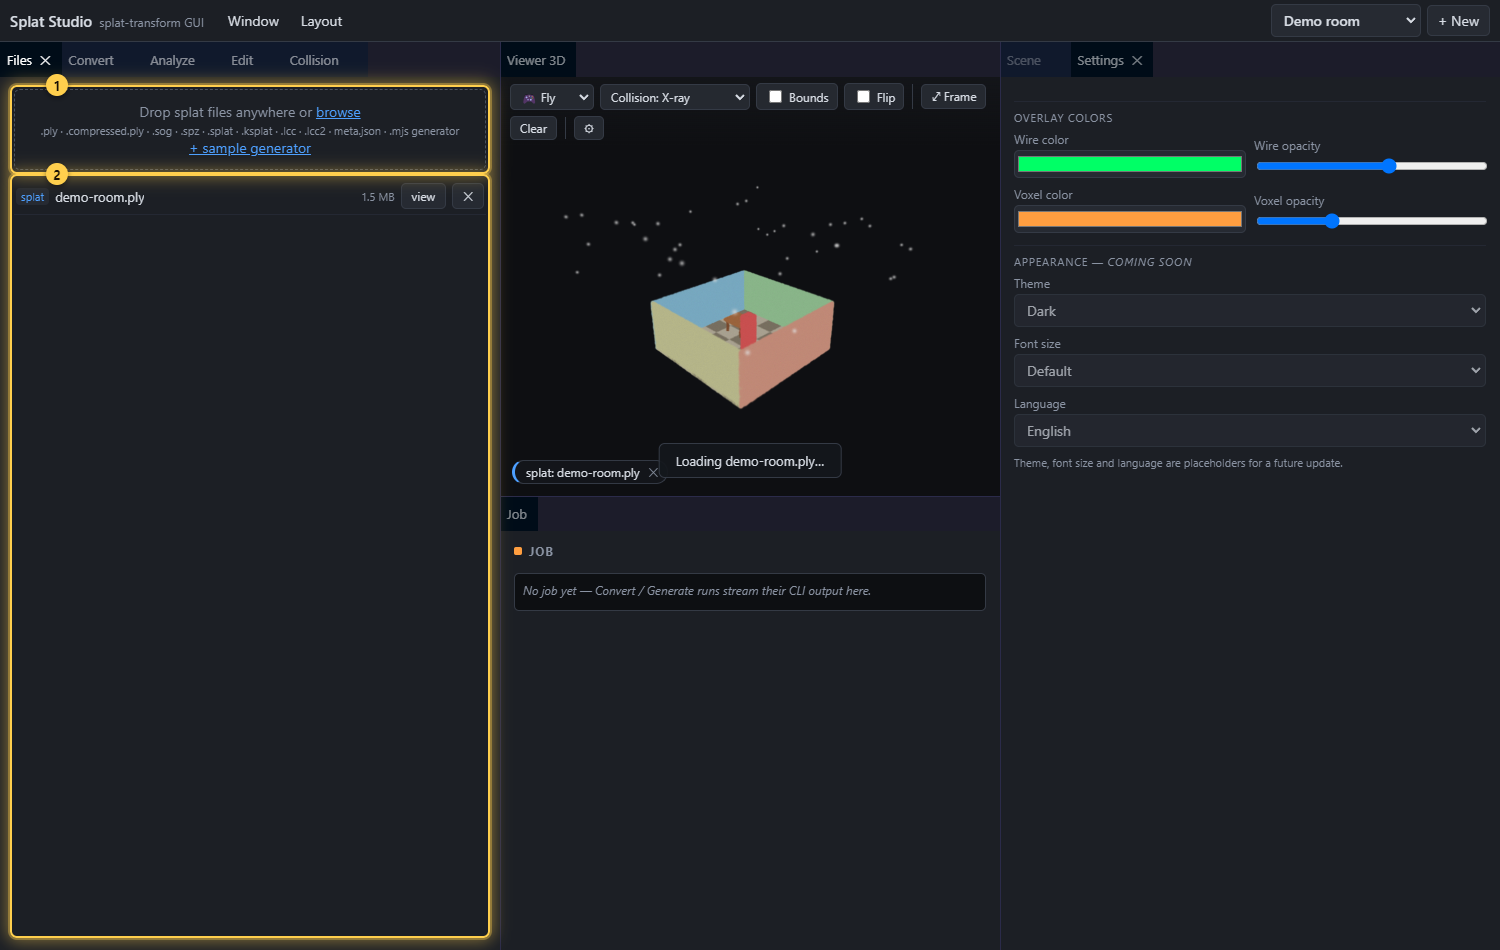
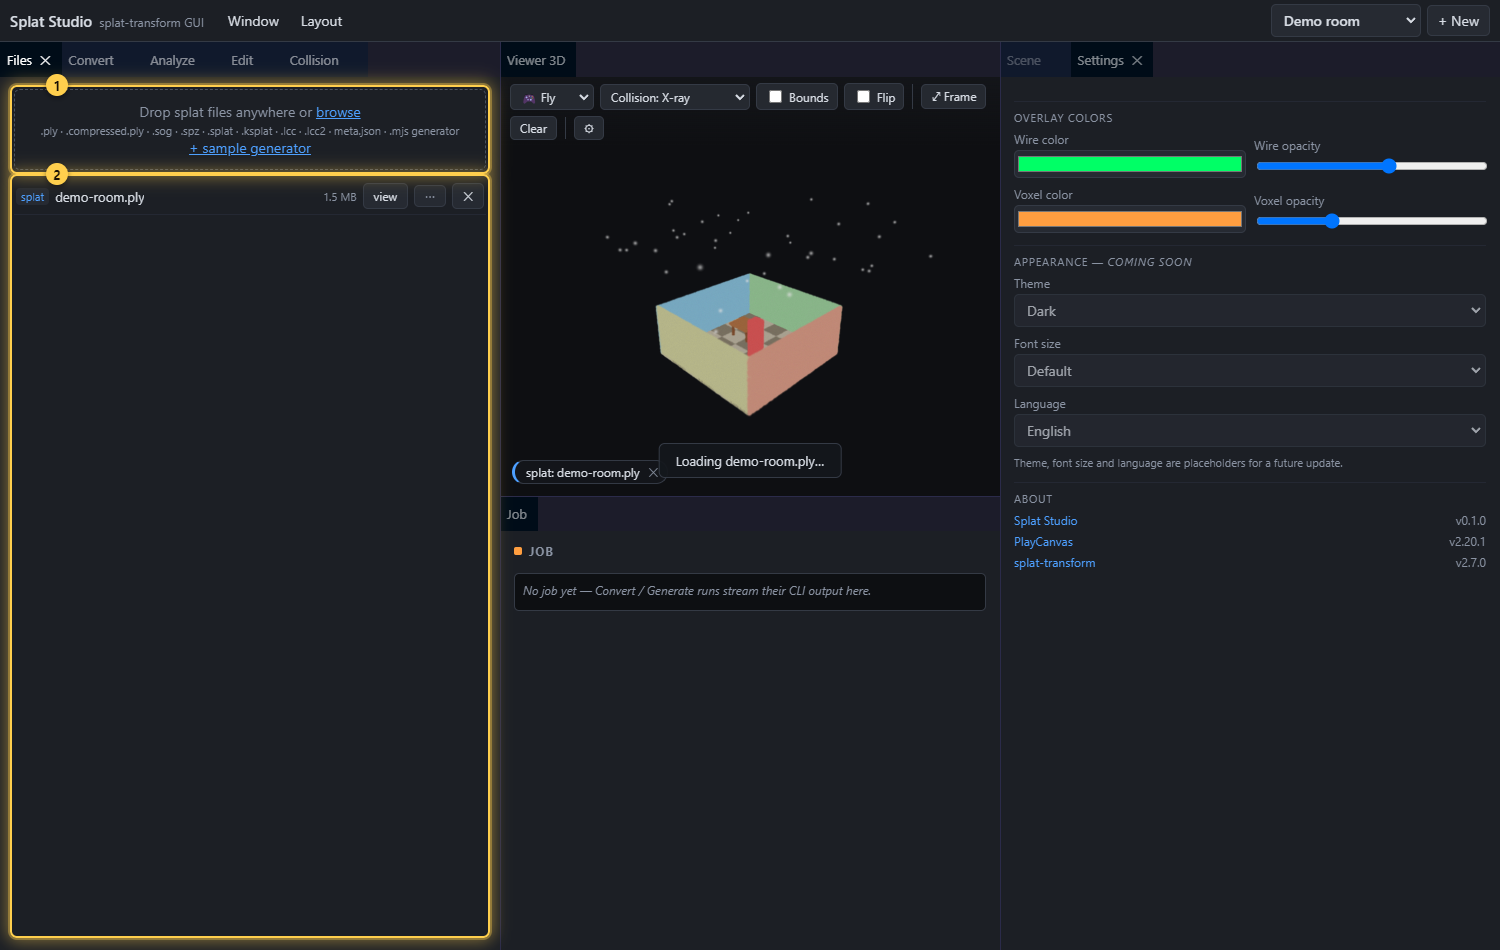
Files: right-click / ⋯ context menu of per-file actions
Right-click any file row (or click its new ⋯ button) for a floating menu of
every action that applies to that file, gated by file kind:

- View in viewport
- Convert → SOG bundle / Streamed LOD / other formats (prefills Convert)
- Generate / Regenerate collision (label flips on a sibling .collision.glb)
- Analyze stats (runs -m and shows the stats card)
- Edit (scale / origin), Generate & view (.mjs), Copy path, Delete

The menu is appended to <body> (dock panels are pooled / overflow-clipped) and
dismisses on outside-click / Escape / scroll / blur. No server changes — reuses
viewFile, openWindow, and select-prefill. Adds a docs:capture scene + guide
section + screenshot.

Changed region(s): [[0.4293, 0.2747, 0.5827, 0.4579], [0.6747, 0.5189, 0.736, 0.6105], [0.2147, 0.1832, 0.276, 0.2137]]

diff --git a/client/src/main.ts b/client/src/main.ts
@@ -213,6 +213,15 @@ const refreshFiles = async (highlight?: Set<string>) => {
             li.appendChild(document.createElement('span')); // keep ✕ in its grid column
         }
 
+        // ⋯ actions button (and right-click anywhere on the row) → file menu
+        const more = document.createElement('button');
+        more.className = 'row-more';
+        more.textContent = '⋯';
+        more.title = 'Actions for this file (or right-click the row)';
+        more.onclick = (e) => { e.stopPropagation(); const rect = more.getBoundingClientRect(); showContextMenu(rect.right, rect.bottom + 2, fileActions(f, files)); };
+        li.appendChild(more);
+        li.oncontextmenu = (e) => { e.preventDefault(); showContextMenu(e.clientX, e.clientY, fileActions(f, files)); };
+
         // two-stage delete: first click arms, second click within 2.5s deletes
         const del = document.createElement('button');
         del.textContent = '✕';
@@ -296,6 +305,105 @@ const viewFile = async (name: string, as: api.ViewKind) => {
     } catch (err) {
         showToast(`Failed to load ${name}: ${err}`, true);
     }
+};
+
+// ---------- file context menu ----------
+// A floating menu of every action that applies to a file — right-click a row or
+// click its ⋯ button. Appended to <body> because dock panels are pooled /
+// overflow-clipped, so a menu inside the panel would be cut off.
+type CtxItem = 'sep' | { label: string; hint?: string; disabled?: boolean; danger?: boolean; run: () => void };
+
+let ctxMenuEl: HTMLDivElement | null = null;
+const closeContextMenu = (): void => {
+    ctxMenuEl?.remove();
+    ctxMenuEl = null;
+    document.removeEventListener('pointerdown', onCtxOutside, true);
+    document.removeEventListener('keydown', onCtxKey, true);
+    document.removeEventListener('scroll', closeContextMenu, true);
+    window.removeEventListener('blur', closeContextMenu);
+    window.removeEventListener('resize', closeContextMenu);
+};
+function onCtxOutside(e: PointerEvent): void { if (ctxMenuEl && !ctxMenuEl.contains(e.target as Node)) closeContextMenu(); }
+function onCtxKey(e: KeyboardEvent): void { if (e.key === 'Escape') closeContextMenu(); }
+
+const showContextMenu = (x: number, y: number, items: CtxItem[]): void => {
+    closeContextMenu();
+    const menu = document.createElement('div');
+    menu.className = 'ctx-menu';
+    for (const it of items) {
+        if (it === 'sep') { const s = document.createElement('div'); s.className = 'ctx-sep'; menu.appendChild(s); continue; }
+        const b = document.createElement('button');
+        b.className = 'ctx-item' + (it.danger ? ' danger' : '');
+        b.textContent = it.label;
+        if (it.hint) b.title = it.hint;
+        if (it.disabled) b.disabled = true;
+        else b.onclick = () => { closeContextMenu(); it.run(); };
+        menu.appendChild(b);
+    }
+    // measure off-screen, then clamp to the viewport
+    menu.style.visibility = 'hidden';
+    document.body.appendChild(menu);
+    const r = menu.getBoundingClientRect();
+    menu.style.left = `${Math.max(6, Math.min(x, window.innerWidth - r.width - 6))}px`;
+    menu.style.top = `${Math.max(6, Math.min(y, window.innerHeight - r.height - 6))}px`;
+    menu.style.visibility = '';
+    ctxMenuEl = menu;
+    // defer the dismiss listeners so the opening click/right-click doesn't close it
+    setTimeout(() => {
+        document.addEventListener('pointerdown', onCtxOutside, true);
+        document.addEventListener('keydown', onCtxKey, true);
+        document.addEventListener('scroll', closeContextMenu, true);
+        window.addEventListener('blur', closeContextMenu);
+        window.addEventListener('resize', closeContextMenu);
+    }, 0);
+};
+
+// focus (or open) a dock panel by id, and prefill a panel's input <select>
+const openPanel = (id: string): void => { const w = winById(id); if (w) openWindow(w); };
+const prefillSelect = (select: HTMLSelectElement, name: string): void => {
+    select.value = name;
+    select.dispatchEvent(new Event('change', { bubbles: true })); // refresh dependent rows + persist
+};
+const deleteFromMenu = (f: api.FileEntry): void => {
+    const folder = f.name.includes('/') && (f.name.endsWith('meta.json') || f.name.endsWith('lod-meta.json'));
+    if (!confirm(`Delete ${f.name}?${folder ? ' This removes the whole output folder.' : ''}`)) return;
+    void api.deleteFile(f.name).then(() => refreshFiles()).catch((err) => showToast(`Delete failed (${f.name}): ${err}`, true));
+};
+
+// every action a given file supports, gated by its kind (mirrors fileKind on the server)
+const fileActions = (f: api.FileEntry, all: api.FileEntry[]): CtxItem[] => {
+    const items: CtxItem[] = [];
+    const lower = f.name.toLowerCase();
+    const isLod = f.kind === 'lod';
+    const isGenerator = f.kind === 'generator';
+    const isSplat = f.kind === 'splat' && !isLod;                 // .ply/.sog/.spz/.splat/.ksplat/.lcc/meta.json
+    const isSog = isSplat && (lower.endsWith('.sog') || lower.endsWith('meta.json'));
+    const isRaw = isSplat && !isSog;                              // an uncompressed source worth compressing to SOG
+    const base = f.name.replace(/\.[^./]+$/, '');                 // drop the extension for sibling lookup
+
+    if (f.viewable) items.push({ label: '👁  View in viewport', hint: 'Load this file into the 3D viewer', run: () => void viewFile(f.name, f.viewable!) });
+
+    if (isGenerator) {
+        items.push({ label: '✨  Generate & view', hint: 'Run the .mjs generator and load the result', run: () => { prefillSelect(convertInput, f.name); openPanel('panel-convert'); void updateInputRows().then(() => generateViewBtn.click()); } });
+    }
+    if (isRaw) {
+        items.push({ label: 'Convert → SOG bundle', hint: 'Compress to a single .sog (~95% smaller)', run: () => { prefillSelect(convertInput, f.name); prefillSelect(convertFormat, 'sog'); openPanel('panel-convert'); } });
+        items.push({ label: 'Convert → Streamed LOD', hint: 'Streamable multi-LOD SOG for big scenes', run: () => { prefillSelect(convertInput, f.name); prefillSelect(convertFormat, 'lod'); openPanel('panel-convert'); } });
+    }
+    if (isSplat || isGenerator) {
+        items.push({ label: isRaw ? 'Convert (other formats)…' : 'Convert…', hint: 'Open the Convert panel with this file selected', run: () => { prefillSelect(convertInput, f.name); openPanel('panel-convert'); } });
+        items.push({ label: 'Analyze stats', hint: 'Run -m/--summary and show the stats card', run: () => { prefillSelect(analyzeInput, f.name); openPanel('panel-analyze'); analyzeRun.click(); } });
+    }
+    if (isSplat) {
+        const hasCollision = all.some((x) => x.name === `${base}.collision.glb`);
+        items.push({ label: hasCollision ? 'Regenerate collision…' : 'Generate collision…', hint: 'Open the Collision panel with this file selected', run: () => { prefillSelect(collisionInput, f.name); openPanel('panel-collision'); } });
+        items.push({ label: 'Edit (scale / origin)…', hint: 'Measure to set real scale, or pick a new origin', run: () => { prefillSelect(editInput, f.name); if (f.viewable) void viewFile(f.name, f.viewable); openPanel('panel-edit'); } });
+    }
+
+    items.push('sep');
+    items.push({ label: 'Copy file path', hint: f.name, run: () => void navigator.clipboard.writeText(f.name).then(() => showToast('Path copied')).catch(() => showToast('Copy failed', true)) });
+    items.push({ label: 'Delete', danger: true, hint: 'Remove from the workspace', run: () => deleteFromMenu(f) });
+    return items;
 };
 
 // ---------- upload ----------

diff --git a/client/src/style.css b/client/src/style.css
@@ -331,7 +331,7 @@ body.dropping #viewport::after {
 }
 .file-list li {
     display: grid;
-    grid-template-columns: auto minmax(0, 1fr) auto auto auto;
+    grid-template-columns: auto minmax(0, 1fr) auto auto auto auto;
     align-items: center;
     gap: 6px;
     padding: 5px 2px;
@@ -406,6 +406,37 @@ body.dropping #viewport::after {
     background: var(--accent);
     transition: width 0.2s;
 }
+
+/* ⋯ row actions button + the floating per-file context menu */
+.row-more { padding: 4px 8px; font-size: 15px; line-height: 1; color: var(--text-dim); }
+.row-more:hover { color: var(--text); }
+.ctx-menu {
+    position: fixed;
+    z-index: 100000;
+    background: var(--bg-panel);
+    border: 1px solid var(--border);
+    border-radius: 6px;
+    box-shadow: 0 8px 24px rgba(0, 0, 0, 0.55);
+    padding: 4px;
+    min-width: 210px;
+}
+.ctx-item {
+    display: block;
+    width: 100%;
+    text-align: left;
+    background: none;
+    border: none;
+    color: var(--text);
+    padding: 6px 10px;
+    border-radius: 4px;
+    font: inherit;
+    cursor: pointer;
+}
+.ctx-item:hover:not(:disabled) { background: var(--bg-input); }
+.ctx-item:disabled { color: var(--text-dim); opacity: 0.5; cursor: default; }
+.ctx-item.danger { color: var(--error); }
+.ctx-item.danger:hover:not(:disabled) { background: rgba(255, 93, 93, 0.12); }
+.ctx-sep { height: 1px; background: var(--border); margin: 4px 2px; }
 
 .badge {
     font-size: var(--fs-xs);

diff --git a/docs/USER_GUIDE.md b/docs/USER_GUIDE.md
@@ -78,7 +78,20 @@ To add splats:
    `meta.json`, and `.mjs` generators.
 2. The **file list** shows every source in the project. Click **view** to display a
    splat (or collision mesh / voxel octree) in the viewport, or **✕** to delete it.
-3. **+ sample generator** drops a ready-to-run `.mjs` scene generator into the
+3. **Right-click any file** — or click its **⋯** button — for an actions menu of
+   everything you can do with that file. The menu adapts to the file's type:
+
+   ![File actions menu](screenshots/files-context-menu.png)
+
+   - **View in viewport**
+   - **Convert → SOG bundle** / **Convert → Streamed LOD** / **Convert (other formats)…**
+     — jumps to the Convert panel with the file selected and the format preset.
+   - **Generate / Regenerate collision…** — jumps to the Collision panel (the label
+     tells you whether a collision mesh already sits next to the file).
+   - **Analyze stats** — runs the summary and shows the stats card.
+   - **Edit (scale / origin)…**, **Generate & view** (`.mjs` generators),
+     **Copy file path**, and **Delete**.
+4. **+ sample generator** drops a ready-to-run `.mjs` scene generator into the
    project so you can try the generator workflow immediately.
 
 ---